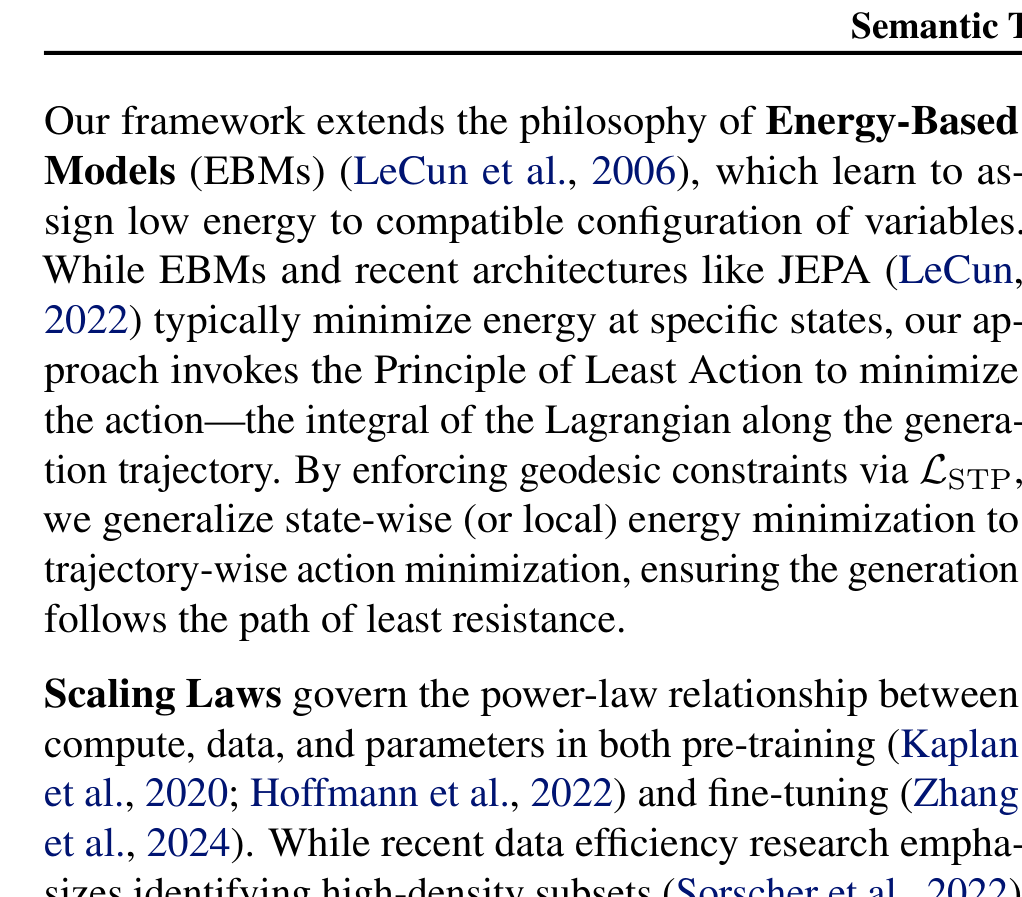
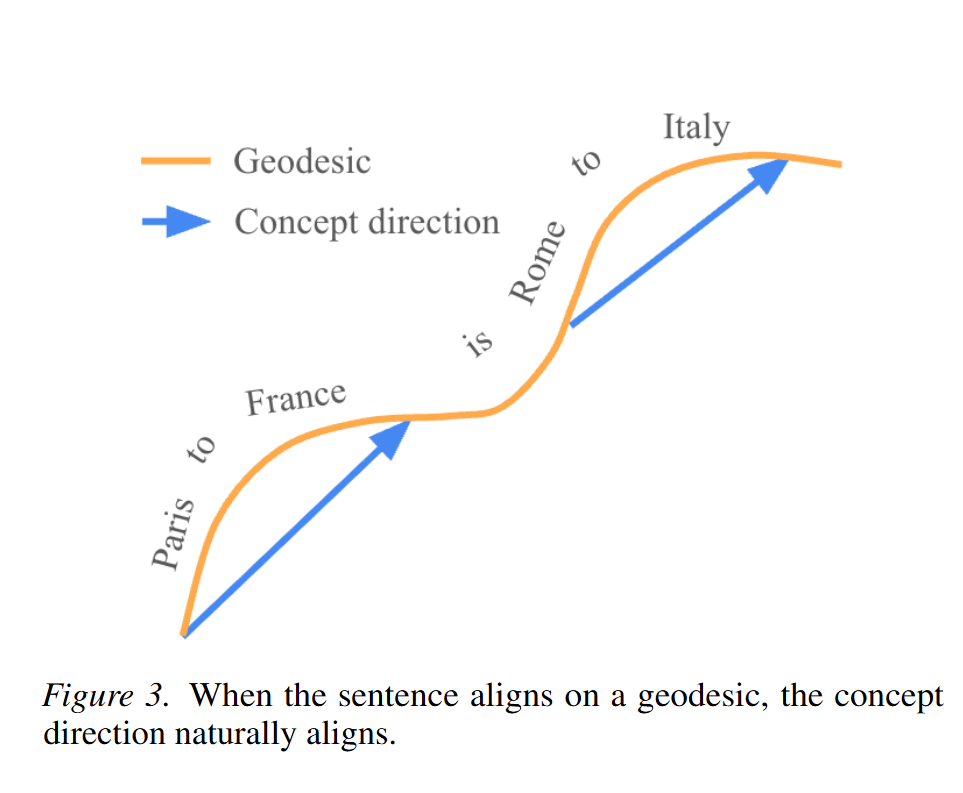
docs: add architectural documentation and diagrams for LpWM and Semantic Tube models

Changed region(s): [[0.0312, 0.1211, 1.0, 1.0], [0.0312, 0.0, 1.0, 0.0605]]

diff --git a/wiki/architecture/2026_Semantic_Tube.md b/wiki/architecture/2026_Semantic_Tube.md
@@ -4,7 +4,6 @@ paper: "[[2026_Semantic_Tube]]"
 entity: "[[Semantic_Tube]]"
 tags: [architecture, jepa, llm, nlp, semantic-tube, geodesics]
 ---
-
 # Arquitectura Semantic Tube
 
 **Semantic Tube** extiende los principios geométricos de JEPA a los **Modelos de Lenguaje (LLMs)**. Propone que la evolución temporal de los estados ocultos de un Transformer que procesa texto describe una trayectoria dentro de un "tubo semántico" geodésico, permitiendo un ajuste fino (*fine-tuning*) con una eficiencia de datos radicalmente superior al método estándar de predicción del siguiente token (Next Token Prediction, NTP).
@@ -14,9 +13,11 @@ tags: [architecture, jepa, llm, nlp, semantic-tube, geodesics]
 ## 1. Diagramas de la Arquitectura
 
 ### Comparativa: Next Token Prediction vs Tubo Semántico
+
 ![Concepto Semantic Tube](img/2026_Semantic_Tube_arch.png)
 
 ### Alineación Geodésica de Conceptos
+
 ![Alineación Geodésica](img/2026_Semantic_Tube_geodesic.png)
 
 ---
@@ -24,20 +25,29 @@ tags: [architecture, jepa, llm, nlp, semantic-tube, geodesics]
 ## 2. Formulación Geométrica
 
 Para una secuencia de estados ocultos $h_1, \dots, h_T \in \mathbb{R}^d$ en la capa superior del LLM:
+
 - **Hipótesis Geodésica**: En un modelo bien entrenado, las transiciones $h_{t-1} \to h_t \to h_{t+1}$ dentro de una misma idea deben formar trayectorias rectas en la variedad de Riemann latente.
 - **Pérdida de Enderezamiento Semántico (Straightening Loss, $\mathcal{L}_{\text{STP}}$)**:
-  $$\mathcal{L}_{\text{STP}} = 1 - \cos\left( h_t - h_r, h_r - h_s \right)$$
+  $$
+  \mathcal{L}_{\text{STP}} = 1 - \cos\left( h_t - h_r, h_r - h_s \right)
+
+  $$
+
   donde $s < r < t$ son posiciones temporales dentro del contexto.
 
 ---
 
 ## 3. Función de Pérdida Total
 
-$$\mathcal{L}_{\text{Total}} = \mathcal{L}_{\text{NTP}} + \lambda \, \mathcal{L}_{\text{STP}}$$
+$$
+\mathcal{L}_{\text{Total}} = \mathcal{L}_{\text{NTP}} + \lambda \, \mathcal{L}_{\text{STP}}
+
+$$
 
 ---
 
 ## 4. Referencias Cruzadas
+
 - **Paper**: [[2026_Semantic_Tube]]
 - **Entidad**: [[Semantic_Tube]]
 - **Relacionado**: [[2026_LeJEPA_Identifiability]]
